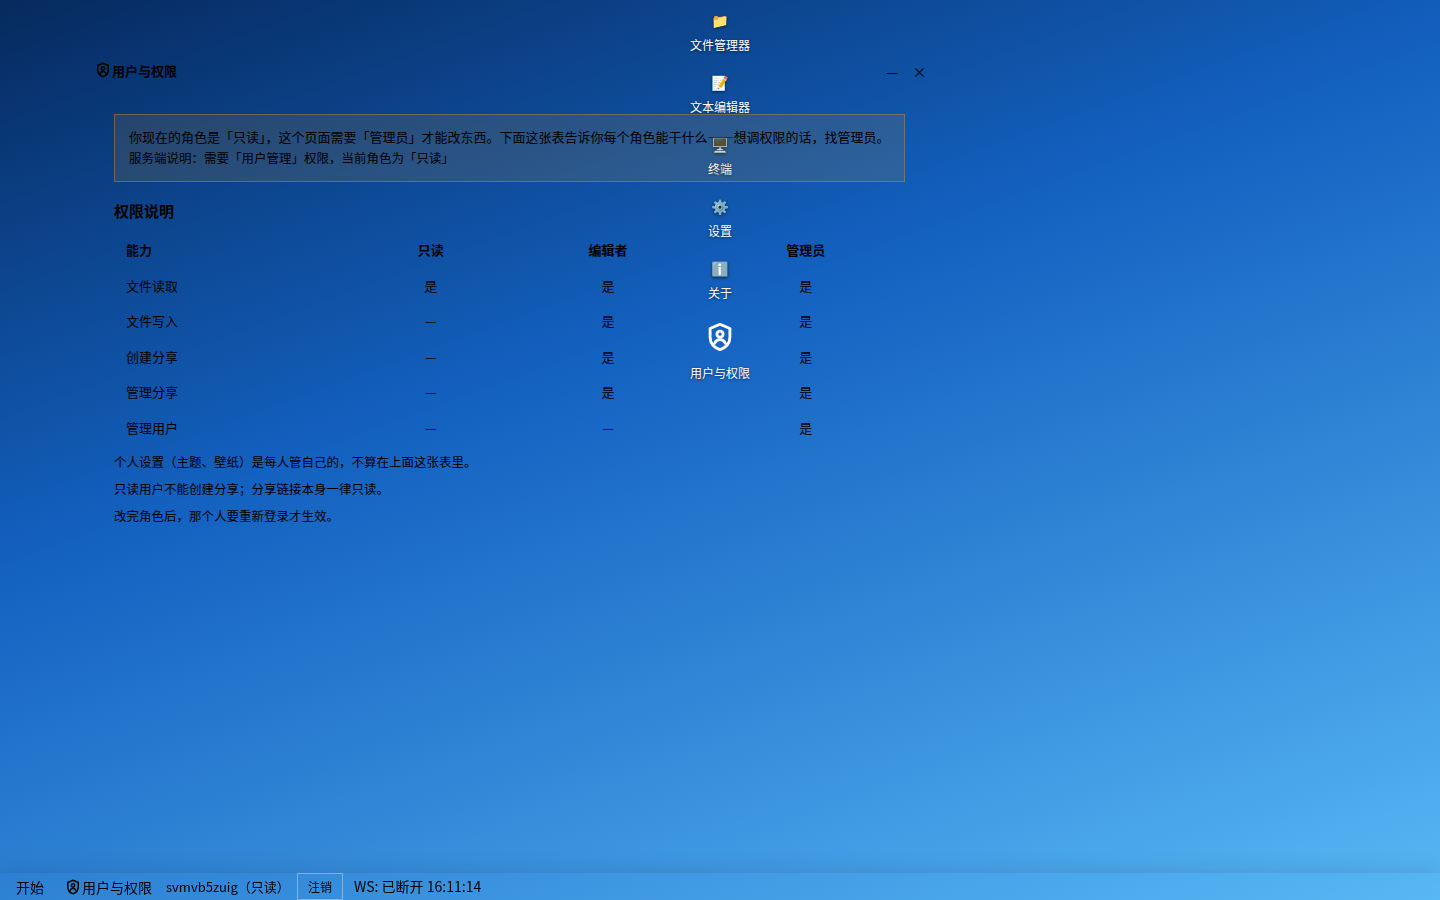
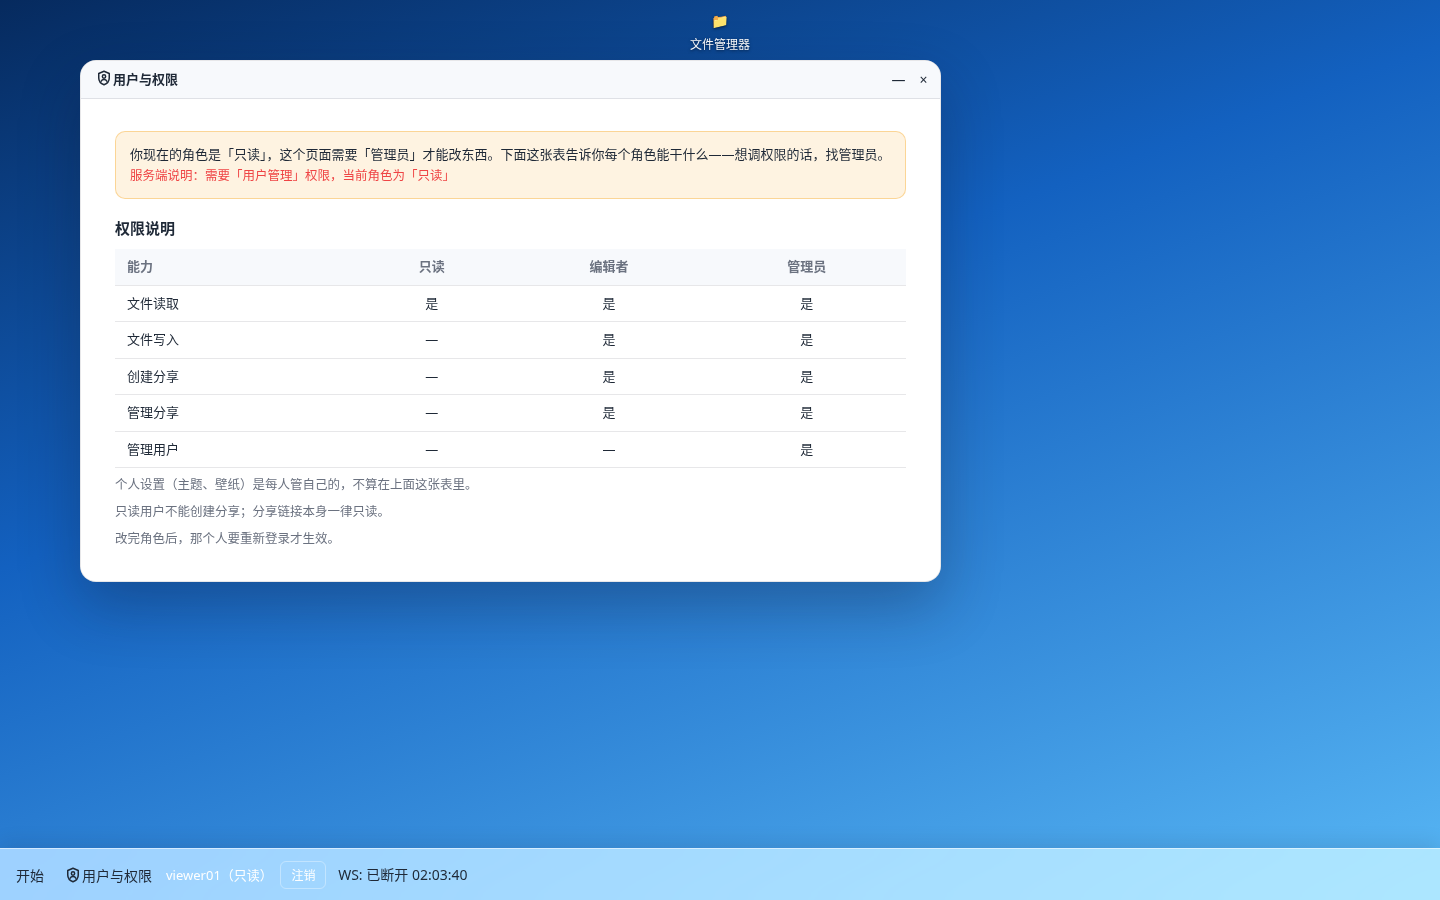
fix(mini-os): v1.8.1 窗口透明 bug（style.css 首行围栏）+ v1.7 截图干净种子重拍
style.css 首行残留 markdown ```css 围栏致 :root 规则被吞、全部窗口背景透明；删除该行恢复正常。v1.7 两张用户与权限截图用干净种子数据（seed-shot-users.sh）重拍，README 截图区同步引用。视觉验收通过（窗口不透明、权限矩阵无重叠）。

diff --git a/mini-os/static/style.css b/mini-os/static/style.css
@@ -1,4 +1,3 @@
-```css
 /* ============================================================
    Mini OS — style.css
    完整样式表：桌面 / 窗口 / 任务栏 / 开始菜单 / 应用视图

diff --git a/mini-os/CHANGELOG.md b/mini-os/CHANGELOG.md
@@ -1,6 +1,16 @@
 
 # Changelog
 
+## [1.8.1] - 2026-10-17
+
+### 修复
+
+- **窗口透明 bug**：`static/style.css` 首行残留 markdown 代码围栏 ```` ```css ````，CSS 解析器把 `:root` 规则整个吞掉，所有 `var(--*)` 失效 → 全部窗口背景透明、桌面图标从窗口内容里透出来。删除该行后恢复正常（视觉验收确认）
+
+### 杂项
+
+- v1.7 两张截图重拍：`docs/screenshots/v17-users-viewer.png` / `v17-users-admin.png`，干净种子数据（`scripts/seed-shot-users.sh`：zhangwei/admin、editor01/editor、viewer01/viewer），README 截图区已引用
+
 ## [1.8.0] - 2026-10-17
 
 ### 新增

diff --git a/mini-os/README.md b/mini-os/README.md
@@ -177,6 +177,8 @@ docker run --rm -p 8090:8090 -v mini-os-data:/app/data mini-os
 ![目录分享子目录与面包屑（v1.6）](docs/screenshots/v16-share-dir-sub.png)
 ![文件分享页（v1.6，深色）](docs/screenshots/v16-share-file.png)
 ![Prometheus /metrics 输出（v1.6）](docs/screenshots/v16-metrics.png)
+![用户与权限（viewer 只读视角，v1.7 重拍）](docs/screenshots/v17-users-viewer.png)
+![用户与权限（admin 管理视角，v1.7 重拍）](docs/screenshots/v17-users-admin.png)
 
 
 
